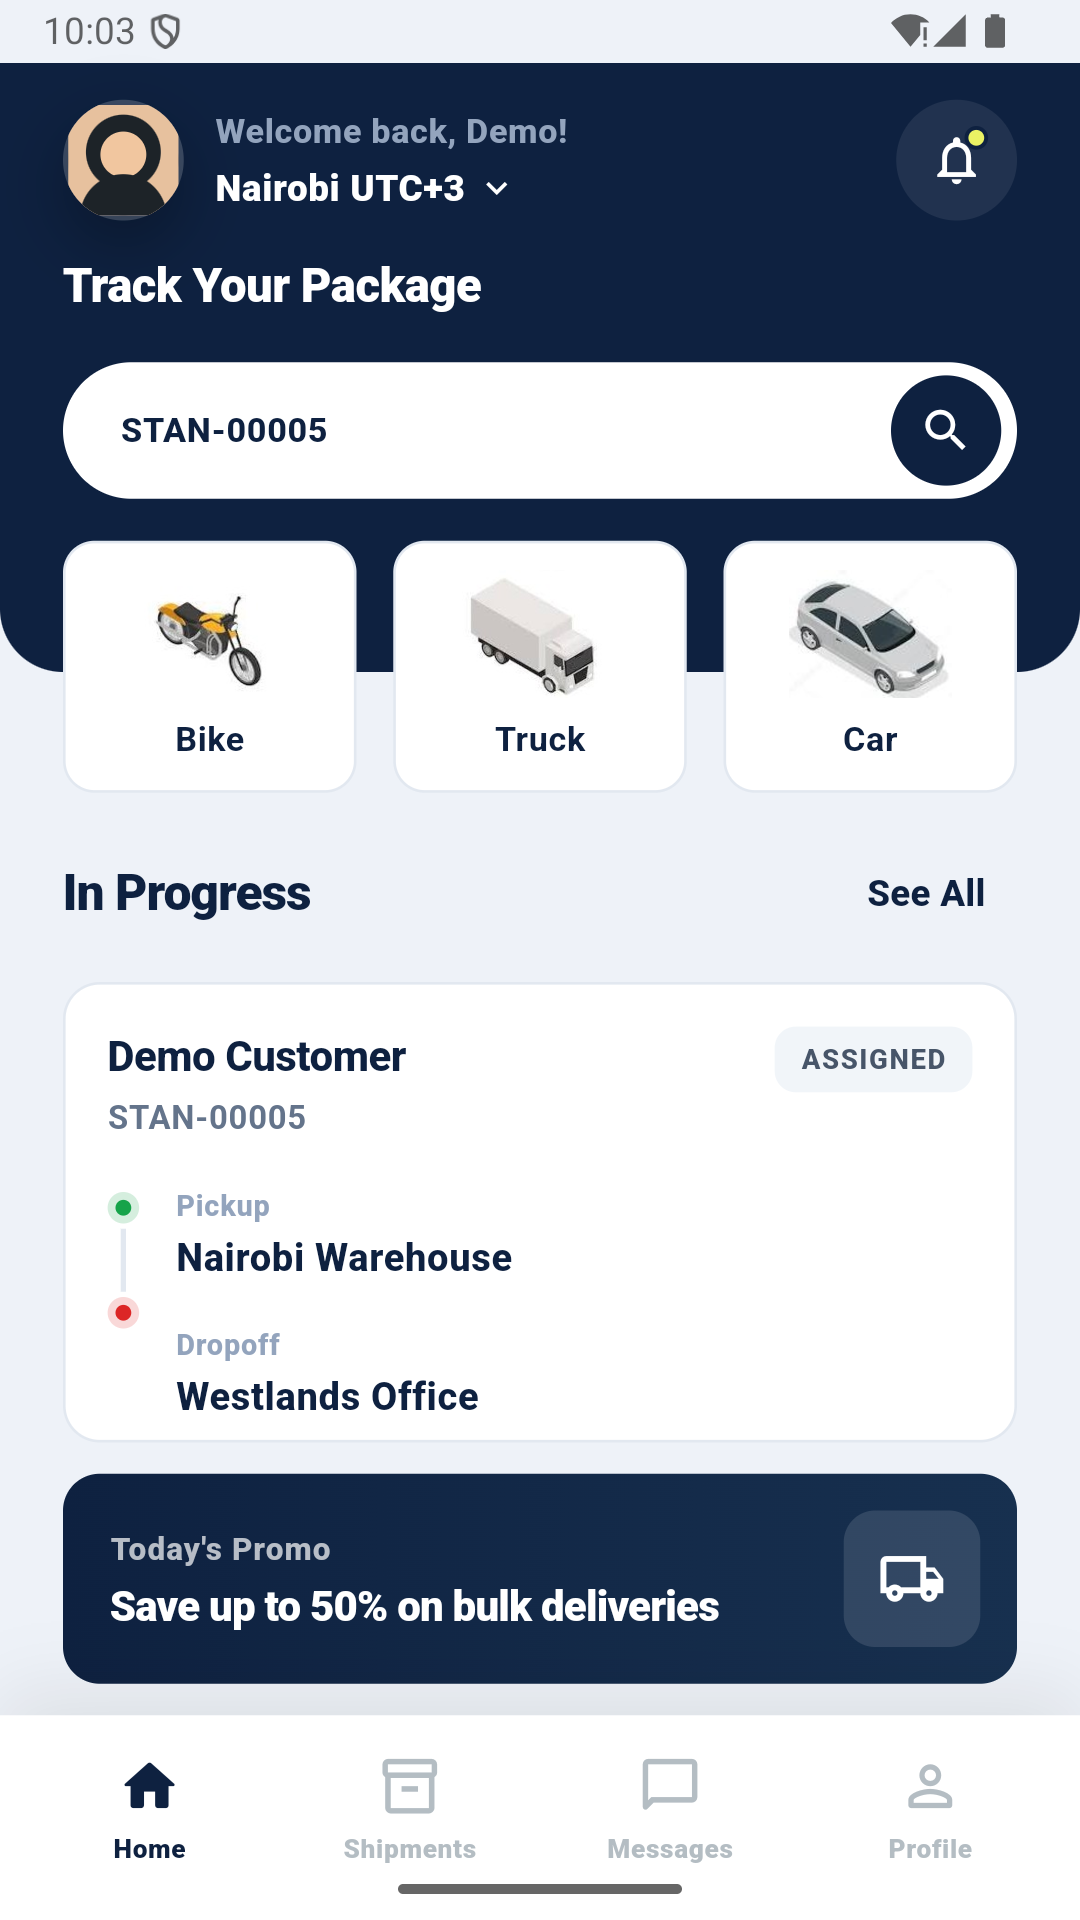
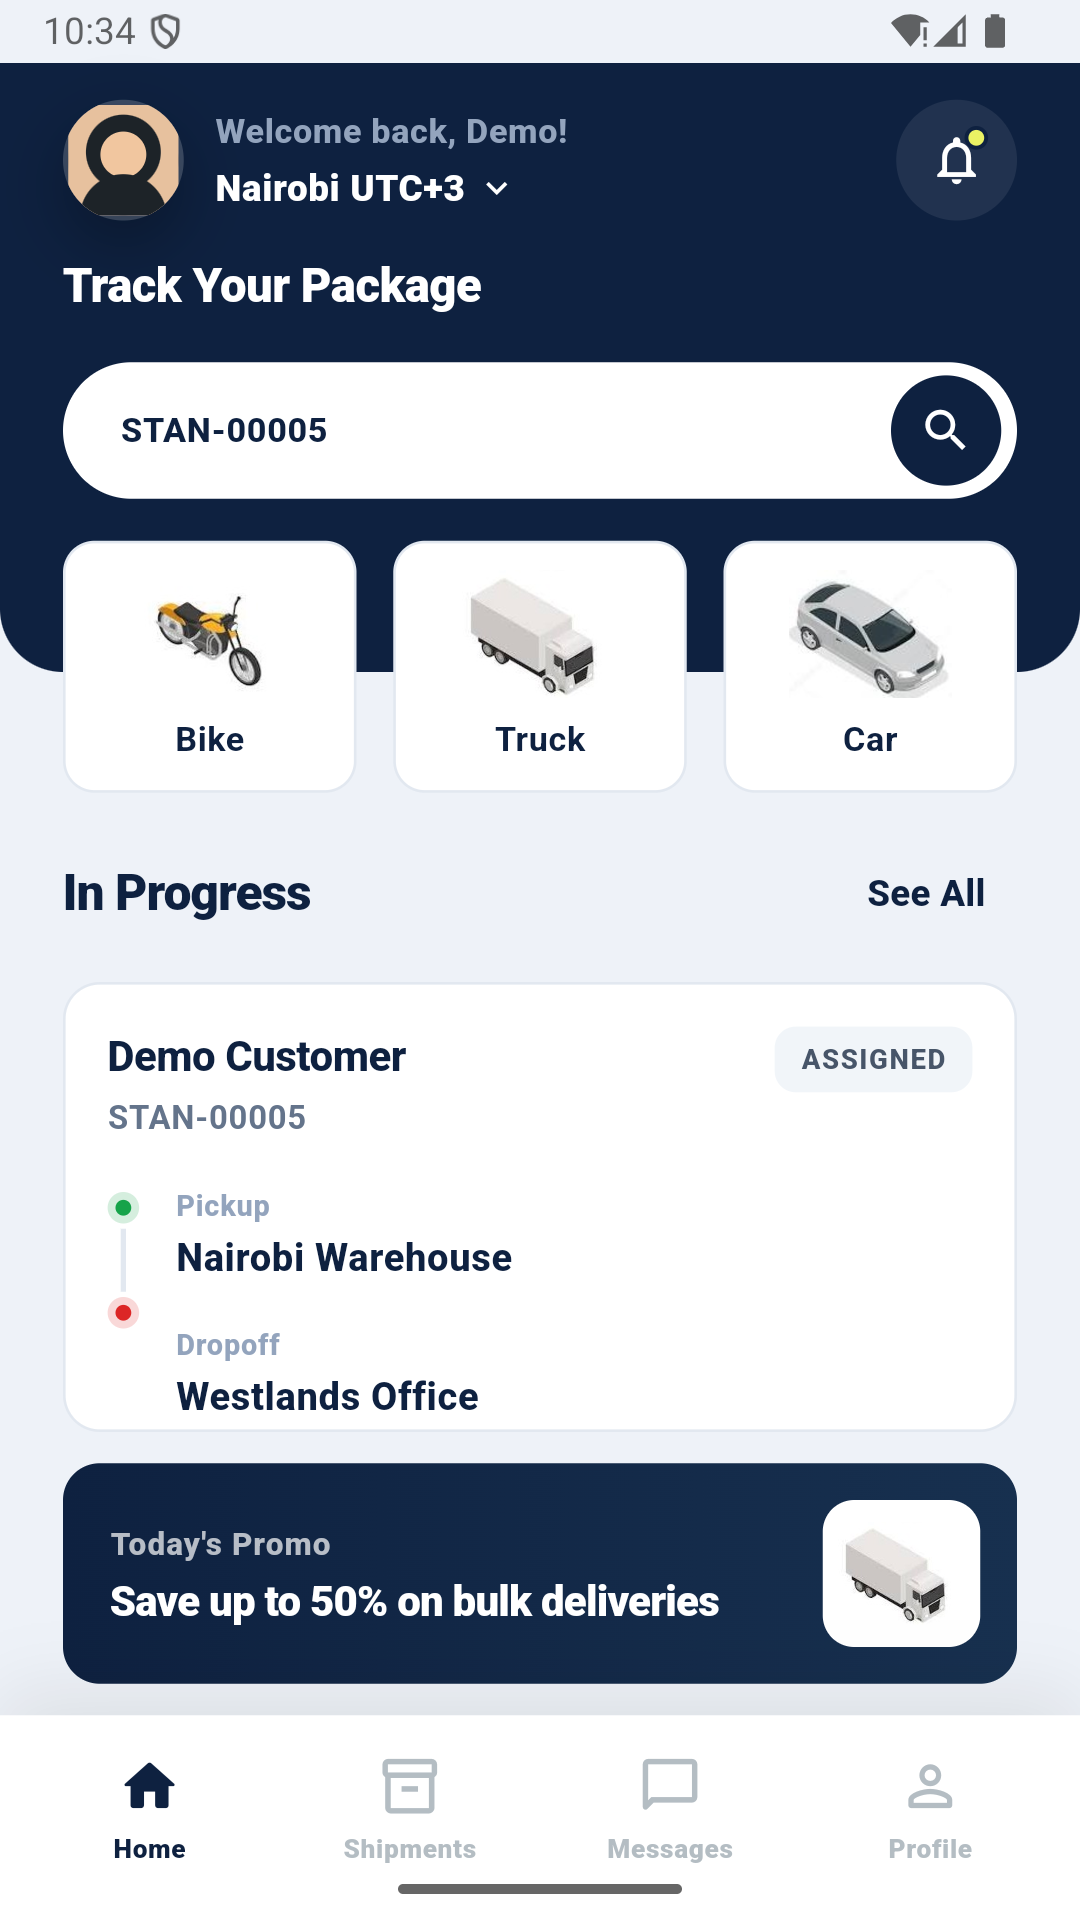
Truck render in Today's Promo tile + drop-in profile picture pipeline
- Promo strip shows truck.png in a white thumbnail tile (icon fallback)
- Driver avatar uses assets/profile/avatar.png when present, else default
  avatar; add assets/profile/ with README specs + pubspec entry

Changed region(s): [[0.0611, 0.75, 0.9472, 0.875], [0.0917, 0.0, 0.1222, 0.0312]]

diff --git a/driver_app/lib/main.dart b/driver_app/lib/main.dart
@@ -2068,7 +2068,14 @@ class _DriverHomeScreenState extends State<DriverHomeScreen>
         ],
       ),
       clipBehavior: Clip.antiAlias,
-      child: _buildAvatarFallback(size),
+      child: Image.asset(
+        'assets/profile/avatar.png',
+        fit: BoxFit.cover,
+        width: size,
+        height: size,
+        // Until a profile photo is added, show the default avatar.
+        errorBuilder: (_, _, _) => _buildAvatarFallback(size),
+      ),
     );
   }
 
@@ -2450,16 +2457,22 @@ class _DriverHomeScreenState extends State<DriverHomeScreen>
             ),
             const SizedBox(width: 14),
             Container(
-              width: 52,
-              height: 52,
+              width: 60,
+              height: 56,
+              padding: const EdgeInsets.all(6),
               decoration: BoxDecoration(
-                color: Colors.white.withValues(alpha: 0.12),
+                color: Colors.white,
                 borderRadius: BorderRadius.circular(12),
               ),
-              child: const Icon(
-                Icons.local_shipping_outlined,
-                color: Colors.white,
-                size: 26,
+              child: Image.asset(
+                'assets/vehicles/truck.png',
+                fit: BoxFit.contain,
+                filterQuality: FilterQuality.high,
+                errorBuilder: (_, _, _) => const Icon(
+                  Icons.local_shipping_outlined,
+                  color: stanDark,
+                  size: 26,
+                ),
               ),
             ),
           ],

diff --git a/driver_app/assets/profile/README.md b/driver_app/assets/profile/README.md
@@ -1,0 +1,15 @@
+# Driver profile picture
+
+Drop your photo here with this EXACT name and the app uses it automatically
+(until then, the app shows the default avatar):
+
+- `avatar.png`  — the driver's profile picture
+
+## Specs
+- **Format:** PNG or JPG (rename to `avatar.png`)
+- **Shape:** square (it's cropped to a circle in the app)
+- **Size:** at least **256 x 256 px**
+- **Content:** face/portrait centered
+
+That's it — drop it in and rebuild. No code changes needed. Used on the home
+header and the Profile tab.